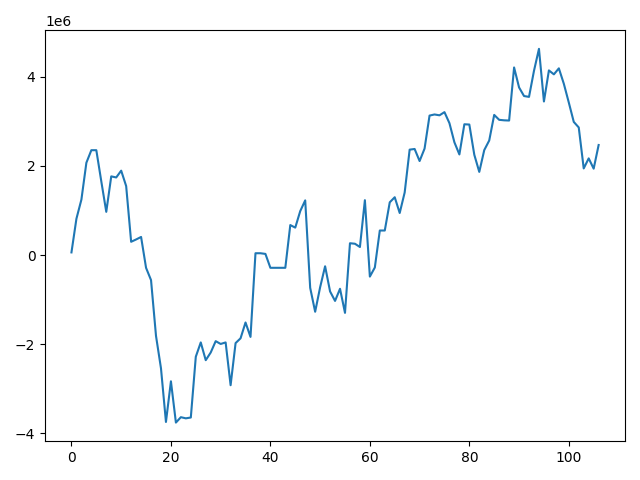
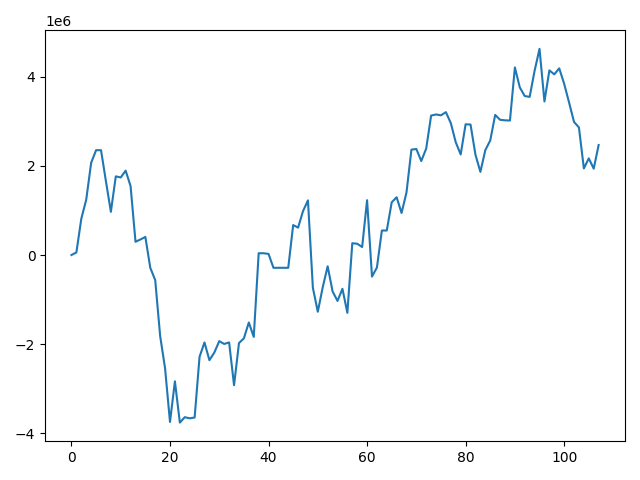
update script and images of evolution

diff --git a/src/main/python/build_graph_evolution.py b/src/main/python/build_graph_evolution.py
@@ -30,7 +30,9 @@ if __name__ == '__main__':
     commits_folder.reverse()
     energies_v1, energies_v2, durations_v1, durations_v2 = [], [], [], []
     delta_energy, delta_duration = [], []
-    acc_delta_energy, acc_delta_duration = [], []
+    acc_delta_energy, acc_delta_duration = [0], [0]
+    min_delta, max_delta = 0, 0
+    min_commit, max_commit = '', ''
     for file in commits_folder:
         path_to_file = path_to_commit_folders + file
         data_v1 = read_json(path_to_file  + '/avg_v1.json')
@@ -47,13 +49,32 @@ if __name__ == '__main__':
         energies_v2.append(energy_v2)
         durations_v1.append(duration_v1)
         durations_v2.append(duration_v2)
-        delta_energy.append(energy_v2 - energy_v1)
-        delta_duration.append(duration_v2 - duration_v1)
+        current_delta_energy = energy_v2 - energy_v1
+        current_delta_duration = duration_v2 - duration_v1
+        delta_energy.append(current_delta_energy)
+        delta_duration.append(current_delta_duration)
         if len(acc_delta_energy) == 0:
-            acc_delta_energy.append(energy_v2 - energy_v1)
-            acc_delta_duration.append(duration_v2 - duration_v1)
+            acc_delta_energy.append(current_delta_energy)
+            acc_delta_duration.append(current_delta_duration)
         else:
-            acc_delta_energy.append(acc_delta_energy[-1] + (energy_v2 - energy_v1))
-            acc_delta_duration.append(acc_delta_duration[-1] + (duration_v2 - duration_v1))
+            acc_delta_energy.append(acc_delta_energy[-1] + current_delta_energy)
+            acc_delta_duration.append(acc_delta_duration[-1] + current_delta_duration)
+        print(file, 
+             '{:.2f}'.format(float(current_delta_energy/1E6)), 
+            '{:.2f}'.format(float(acc_delta_energy[-2]/1E6)), 
+            '{:.2f}'.format(float(acc_delta_energy[-1]/1E6))
+        )
+        if min_delta == 0:
+            min_delta = acc_delta_energy[-1]
+        if max_delta == 0:
+            max_delta = acc_delta_energy[-1]
+        if acc_delta_energy[-1] > max_delta:
+            max_commit = file
+            max_delta = acc_delta_energy[-1]
+        if acc_delta_energy[-1] < min_delta:
+            min_commit = file
+            min_delta = acc_delta_energy[-1]
+    print(min_commit, min_delta)
+    print(max_commit, max_delta)
     build_graph(acc_delta_energy, path_to_commit_folders + '/delta_energy_evolution.png')
     build_graph(acc_delta_duration, path_to_commit_folders + '/delta_duration_evolution.png')
